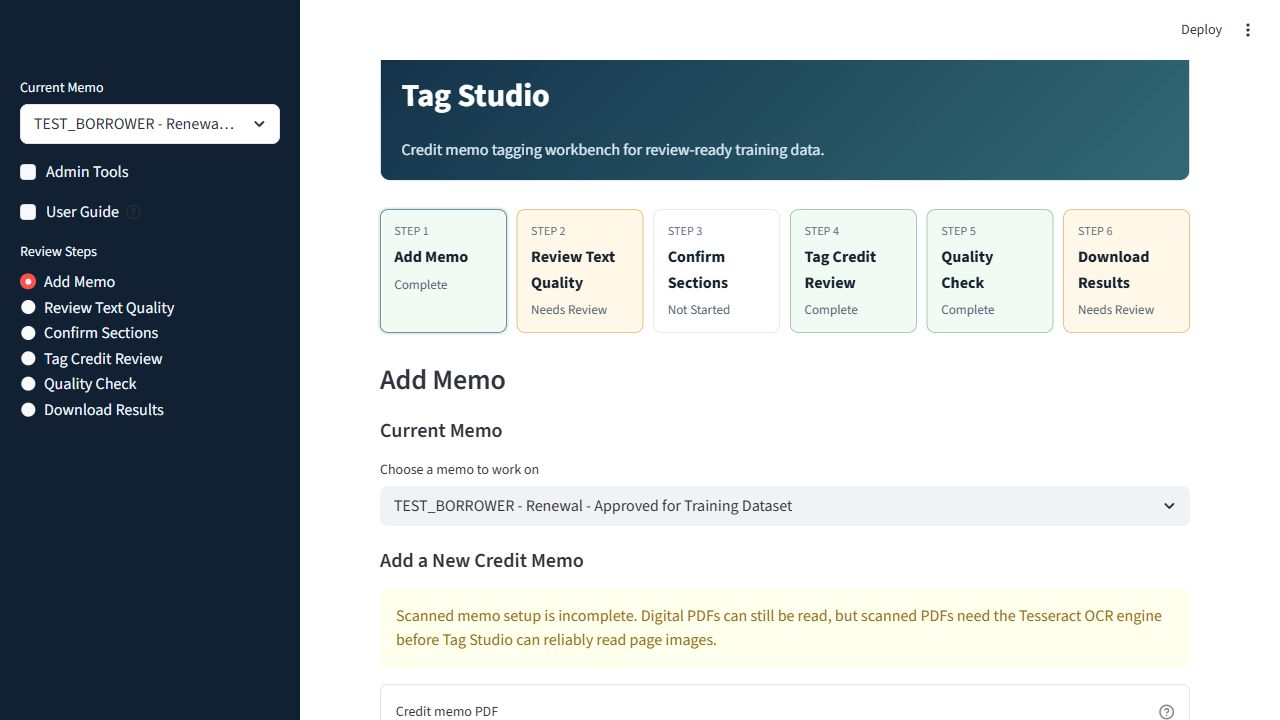
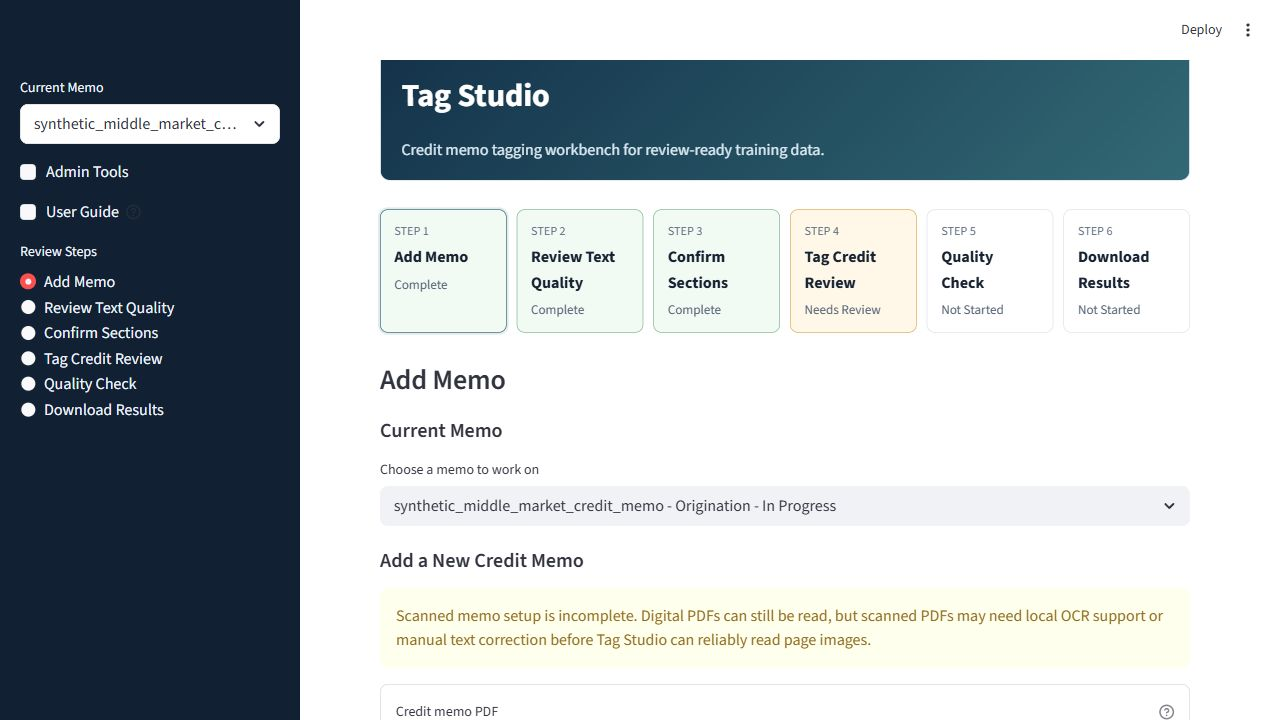
Clarify scanned PDF OCR wording

diff --git a/docs/user_guide/tag_studio_user_guide.html b/docs/user_guide/tag_studio_user_guide.html
@@ -204,13 +204,13 @@
       </div>
       <figure>
         <img src="assets/figure-01-add-memo.png" alt="Add Memo screen in Tag Studio">
-        <figcaption>Figure 2. <code>Add Memo</code> screen captured from Tag Studio using synthetic TEST_BORROWER data.</figcaption>
+        <figcaption>Figure 2. <code>Add Memo</code> screen captured from Tag Studio using synthetic sample memo data.</figcaption>
       </figure>
     </section>
 
     <section id="text-quality">
       <h2>Review Text Quality</h2>
-      <p>Use <code>Review Text Quality</code> to confirm the extracted text is good enough for tagging. Open any page marked <code>Needs Review</code>, compare the page image to the extracted text, correct obvious OCR problems, and select <code>Save Page Review</code>. See Figure 3, <code>Review Text Quality > Save Page Review</code>.</p>
+      <p>Use <code>Review Text Quality</code> to confirm the extracted text is good enough for tagging. Open any page marked <code>Needs Review</code>, compare the page image to the extracted text, correct obvious text-reading problems, and select <code>Save Page Review</code>. See Figure 3, <code>Review Text Quality > Save Page Review</code>.</p>
       <div class="callout stop">
         <strong>When to stop:</strong> If a page image contains unreadable text, handwriting, or important tables that did not extract correctly, record that issue in reviewer notes before moving on.
       </div>
@@ -276,7 +276,7 @@
     <section id="mistakes">
       <h2>Common Reviewer Mistakes</h2>
       <ul>
-        <li><strong>Skipping text review:</strong> OCR errors can create bad tags. Check pages marked for review before confirming sections.</li>
+        <li><strong>Skipping text review:</strong> Text-reading errors can create bad tags. Check pages marked for review before confirming sections.</li>
         <li><strong>Mapping by wording only:</strong> A heading called "Cash Flow" may belong to <code>Repayment Analysis</code> depending on the content.</li>
         <li><strong>Saving tags without evidence:</strong> Important credit facts should be tied to memo text whenever possible.</li>
         <li><strong>Using "Not addressed" too quickly:</strong> First check whether the memo discusses the topic under a different heading.</li>
@@ -286,7 +286,7 @@
 
     <section id="sources">
       <h2>Guide Sources</h2>
-      <p>This guide cites captured Tag Studio app screens from a synthetic TEST_BORROWER memo. No real borrower or customer data is used.</p>
+      <p>This guide cites captured Tag Studio app screens from a synthetic sample memo. No real borrower or customer data is used.</p>
       <ol class="source-list">
         <li>Figure 1: Tag Studio sidebar, <code>Admin Tools</code> collapsed and <code>User Guide</code> visible.</li>
         <li>Figure 2: Tag Studio <code>Add Memo</code> screen.</li>

diff --git a/tag_studio/app.py b/tag_studio/app.py
@@ -376,7 +376,7 @@ def extraction_message(method: str, warning: str | None, page_count: int) -> Non
     if warning:
         st.warning("Some pages may need review. Check extracted text before confirming memo sections.")
     elif method == "manual_correction":
-        st.warning("Could not read scanned text. Install OCR support or correct the text manually.")
+        st.warning("Could not read scanned text. Add local scanned-PDF reading support or correct the text manually.")
     else:
         st.success(f"Text read successfully from {page_count} page(s).")
 
@@ -453,8 +453,8 @@ def add_memo_page(workspace: Path) -> None:
     deps = dependency_status()
     if not deps.get("tesseract"):
         st.warning(
-            "Scanned memo setup is incomplete. Digital PDFs can still be read, but scanned PDFs need the Tesseract OCR engine "
-            "before Tag Studio can reliably read page images."
+            "Scanned memo setup is incomplete. Digital PDFs can still be read, but scanned PDFs may need local OCR support "
+            "or manual text correction before Tag Studio can reliably read page images."
         )
     with st.form("add_memo_form"):
         uploaded = st.file_uploader(
@@ -571,7 +571,7 @@ def review_text_quality_page(workspace: Path, memo_id: str | None) -> None:
         ("Pages", summary["page_count"]),
         ("Average Read Quality", f"{int(summary['average_score'] * 100)}%"),
         ("Needs Review", summary["needs_review_count"]),
-        ("OCR Warnings", len([warning for warning in warnings if not warning.get("resolved")]))
+        ("Text Reading Warnings", len([warning for warning in warnings if not warning.get("resolved")]))
     ]
     for col, (label, value) in zip(cols, metrics):
         col.markdown(f'<div class="metric-card"><div class="label">{label}</div><div class="value">{value}</div></div>', unsafe_allow_html=True)
@@ -632,7 +632,7 @@ def review_text_quality_page(workspace: Path, memo_id: str | None) -> None:
     with right:
         st.markdown("##### Extracted Text")
         corrected_text = st.text_area(
-            "Correct this text if the page image shows OCR mistakes.",
+            "Correct this text if the page image shows text-reading mistakes.",
             value=selected_text.get("text", ""),
             height=500,
             key=f"quality_text_{memo_id}_{selected_page_number}",
@@ -1090,7 +1090,7 @@ def quality_findings(workspace: Path, memo_id: str) -> tuple[list[str], dict[str
         and unreviewed_warning_pages
     ]
     if unreviewed_warnings:
-        findings.append(f"{len(unreviewed_warnings)} OCR warning(s) still need review.")
+        findings.append(f"{len(unreviewed_warnings)} text reading warning(s) still need review.")
 
     gaps = required_section_gaps(sections, section_defs, memo.get("memo_type", ""), memo.get("facility_type", ""))
     if gaps:

diff --git a/tag_studio/extraction.py b/tag_studio/extraction.py
@@ -89,7 +89,7 @@ def ocr_images(image_paths: list[Path]) -> list[PageText]:
     except ImportError as exc:
         raise RuntimeError("pytesseract is required for OCR. Install with: pip install pytesseract") from exc
     if not tesseract_available():
-        raise RuntimeError("The Tesseract OCR engine is not installed or is not on PATH.")
+        raise RuntimeError("Local scanned-PDF reading support is not installed or is not on PATH.")
 
     pages: list[PageText] = []
     for index, image_path in enumerate(image_paths, start=1):
@@ -117,5 +117,5 @@ def extract_pdf(pdf_path: Path, pages_dir: Path, force_ocr: bool = False) -> tup
         fallback_pages = extract_embedded_text(pdf_path)
         warning = str(exc)
         if not any(page.text for page in fallback_pages):
-            warning += " No embedded text was found; use manual correction or install Tesseract."
+            warning += " No embedded text was found; use manual correction or configure local OCR support."
         return fallback_pages, rendered, "manual_correction", warning

diff --git a/README_TAG_STUDIO.md b/README_TAG_STUDIO.md
@@ -21,9 +21,9 @@ python -m streamlit run tag_studio\app.py
 - Uploads a credit memo PDF.
 - Extracts text locally with PyMuPDF.
 - Renders PDF pages as images.
-- Falls back to local OCR with Tesseract when embedded text is weak and Tesseract is installed.
+- Falls back to local OCR when embedded text is weak and local OCR support is installed.
 - Uses optional OpenCV preprocessing to improve OCR on skewed, low-contrast, or noisy page images.
-- Creates page-quality records, layout blocks, reading order, OCR warnings, and section candidates.
+- Creates page-quality records, layout blocks, reading order, text-reading warnings, and section candidates.
 - Lets users review page text quality before section confirmation.
 - Lets users define standard memo sections and heading aliases.
 - Lets users map original memo headers to consistent standard section IDs.
@@ -39,6 +39,8 @@ For hosted Shakudo deployments, Tag Studio can run with `TAG_STUDIO_STORAGE_BACK
 
 ## OCR Note
 
-PyMuPDF and pytesseract are Python packages, but scanned-PDF OCR also requires the Tesseract desktop engine to be installed and available on `PATH`. If Tesseract is not installed, the app still works for digital PDFs and clearly marks scanned PDFs as needing OCR setup or manual correction.
+Amazon Textract is AWS's cloud document-analysis and OCR service. Tag Studio does not currently call Textract. The current scanned-PDF path is local-first and uses the Tesseract desktop OCR engine through `pytesseract`, so it can run without AWS credentials.
+
+PyMuPDF and pytesseract are Python packages, but scanned-PDF OCR also requires the local Tesseract desktop engine to be installed and available on `PATH`. If local OCR support is not installed, the app still works for digital PDFs and clearly marks scanned PDFs as needing OCR setup or manual correction.
 
 The robust intake path also installs OCR/layout Python packages listed in `requirements.txt`. Paddle runtime support is pinned for Python versions before 3.13 because Paddle packages may lag newer Python releases; Python 3.11 is the recommended runtime for full OCR/layout support.

diff --git a/README.md b/README.md
@@ -24,7 +24,7 @@ The first launch may take a few minutes while Tag Studio sets itself up. After t
 ## Notes
 
 - Digital PDFs are extracted locally with PyMuPDF.
-- Scanned PDFs need local OCR support installed on the computer. Tag Studio will warn you if Tesseract is missing.
+- Scanned PDFs need local OCR support installed on the computer. Tag Studio will warn you if scanned-PDF reading support is missing.
 - Messy pages are flagged for human review before section tagging starts.
 - Downloads are generated as a Review Workbook, Training File, and Audit Package.
 - Local work is stored in `tag_studio_workspace/`, which is ignored by Git.

diff --git a/README_SHAKUDO.md b/README_SHAKUDO.md
@@ -54,6 +54,8 @@ For digital PDFs, Python dependencies are enough. For scanned PDFs, the Shakudo 
 
 If the base Shakudo environment does not include these, create an environment config or custom image before production use.
 
+Technical note: this requirement is for Tag Studio's current local OCR path. Amazon Textract is AWS's managed document-analysis service, but Tag Studio does not call Textract in the current Shakudo deployment plan.
+
 ## How Storage Works
 
 S3 object keys mirror the local workspace layout: